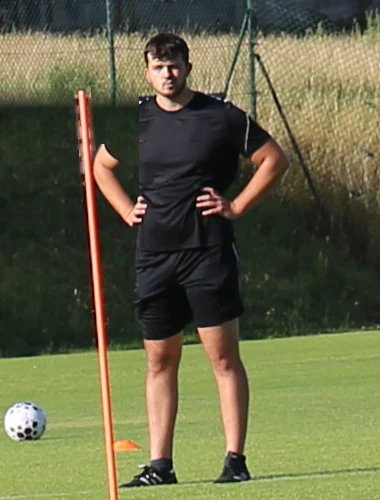
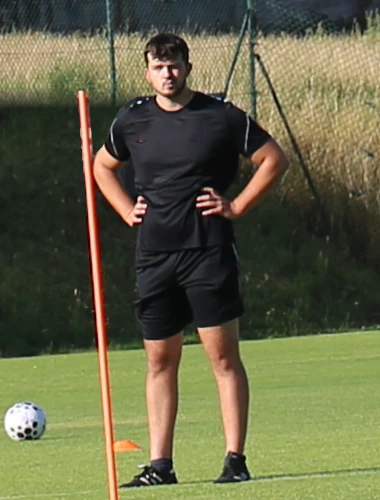
Thonon : épaule restaurée, raccord net le long du piquet
Claude-Session: https://claude.ai/code/session_014tbfRPr1MFmtw8wvnt4HGR

Changed region(s): [[0.1737, 0.18, 0.3763, 0.42]]

diff --git a/index.html b/index.html
@@ -5130,7 +5130,7 @@ function renderPublicSite(){
  '<div class="ak-about-summary"><h3>Un parcours multisport</h3>'+
  '<div class="ak-about-career-lines"><div><strong>Handball</strong><span>Palente Besançon Handball (national) · Section Stendhal, championne de France UNSS 2026</span></div><div><strong>Football</strong><span>Préparation physique à Thonon Évian Grand Genève · Seconde Ligue</span></div><div><strong>Boxe & haltérophilie</strong><span>Encadrement technique et préparation physique</span></div></div>'+
  '<div class="ak-about-skill-line"><span>Évaluation & profilage physique</span><span>Planification & suivi des charges</span><span>Préparation physique & réathlétisation</span><span>Préparation mentale</span><span>Sommeil, récupération & état de forme</span><span>Nutrition : besoins & macronutriments</span><span>Prise en compte du cycle menstruel</span></div></div>'+
- '</div></div>'+'<div class="akp-field" aria-label="Sur le terrain"><div class="akp-field-head"><span class="kicker">Sur le terrain</span><p>Des séances et des saisons vécues au plus près des sportifs.</p></div><div class="akp-field-grid"><figure class="wide"><img src="assets/media/palente-victoire-salle.webp" alt="Les joueuses et le staff de Palente Besançon Handball célèbrent une victoire à Besançon" width="1180" height="1000" loading="lazy" decoding="async"><figcaption><strong>Palente Besançon Handball</strong><span>Prépa physique et mentale · montée en N2 invaincue</span></figcaption></figure><figure><video src="assets/media/boxe-coaching-echelle.mp4" poster="assets/media/boxe-coaching-echelle.webp" autoplay muted loop playsinline preload="none" aria-label="Alex Kieffer coache un boxeur sur une échelle de rythme"></video><figcaption><strong>Corona Boxe</strong><span>Prépa physique · boxeurs jusqu’au niveau pro</span></figcaption></figure><figure><img src="assets/media/alex-terrain-face.webp?v=2" alt="Alex Kieffer, préparateur physique, sur le terrain pendant une séance" width="380" height="500" loading="lazy" decoding="async" style="object-position:57% 30%"><figcaption><strong>Thonon Évian Grand Genève</strong><span>Prépa physique · pré-saison, Seconde Ligue féminine</span></figcaption></figure></div></div>'+'</div></section>'+
+ '</div></div>'+'<div class="akp-field" aria-label="Sur le terrain"><div class="akp-field-head"><span class="kicker">Sur le terrain</span><p>Des séances et des saisons vécues au plus près des sportifs.</p></div><div class="akp-field-grid"><figure class="wide"><img src="assets/media/palente-victoire-salle.webp" alt="Les joueuses et le staff de Palente Besançon Handball célèbrent une victoire à Besançon" width="1180" height="1000" loading="lazy" decoding="async"><figcaption><strong>Palente Besançon Handball</strong><span>Prépa physique et mentale · montée en N2 invaincue</span></figcaption></figure><figure><video src="assets/media/boxe-coaching-echelle.mp4" poster="assets/media/boxe-coaching-echelle.webp" autoplay muted loop playsinline preload="none" aria-label="Alex Kieffer coache un boxeur sur une échelle de rythme"></video><figcaption><strong>Corona Boxe</strong><span>Prépa physique · boxeurs jusqu’au niveau pro</span></figcaption></figure><figure><img src="assets/media/alex-terrain-face.webp?v=3" alt="Alex Kieffer, préparateur physique, sur le terrain pendant une séance" width="380" height="500" loading="lazy" decoding="async" style="object-position:57% 30%"><figcaption><strong>Thonon Évian Grand Genève</strong><span>Prépa physique · pré-saison, Seconde Ligue féminine</span></figcaption></figure></div></div>'+'</div></section>'+
  '<section class="public-section ak-difference-section ak-difference-compact" id="pourquoi-ak-prime" style="padding-top:0"><div class="public-section-inner">'+
  '<div class="ak-diff-intro"><div class="kicker">La différence AK PRIME</div><h2>Votre progression ne s’arrête pas à la fin d’un programme.</h2></div>'+
  '<div class="ak-diff-strip"><div class="ak-diff-passport"><div class="ak-diff-passport-kicker">LE PASSEPORT AK PRIME</div><h3>Votre parcours sportif, au même endroit.</h3><p>Plus qu’un tableau de résultats, c’est votre carnet de suivi : objectifs, évaluations, évolution des performances, historique des cycles et points d’attention y trouvent leur place selon votre accompagnement. Vous comprenez <strong>d’où vous partez, où vous en êtes et vers quoi vous avancez.</strong></p><p>Et si vous changez d’entraîneur, de préparateur physique ou de club ? L’objectif est de pouvoir <strong>transmettre, avec votre accord, un historique clair</strong> au professionnel qui prend le relais. Il dispose ainsi de repères sur votre parcours, sans devoir tout reconstruire depuis le début.</p><div class="ak-diff-passport-foot">Un suivi qui vous appartient et qui garde son utilité au-delà d’un accompagnement.</div></div>'+
